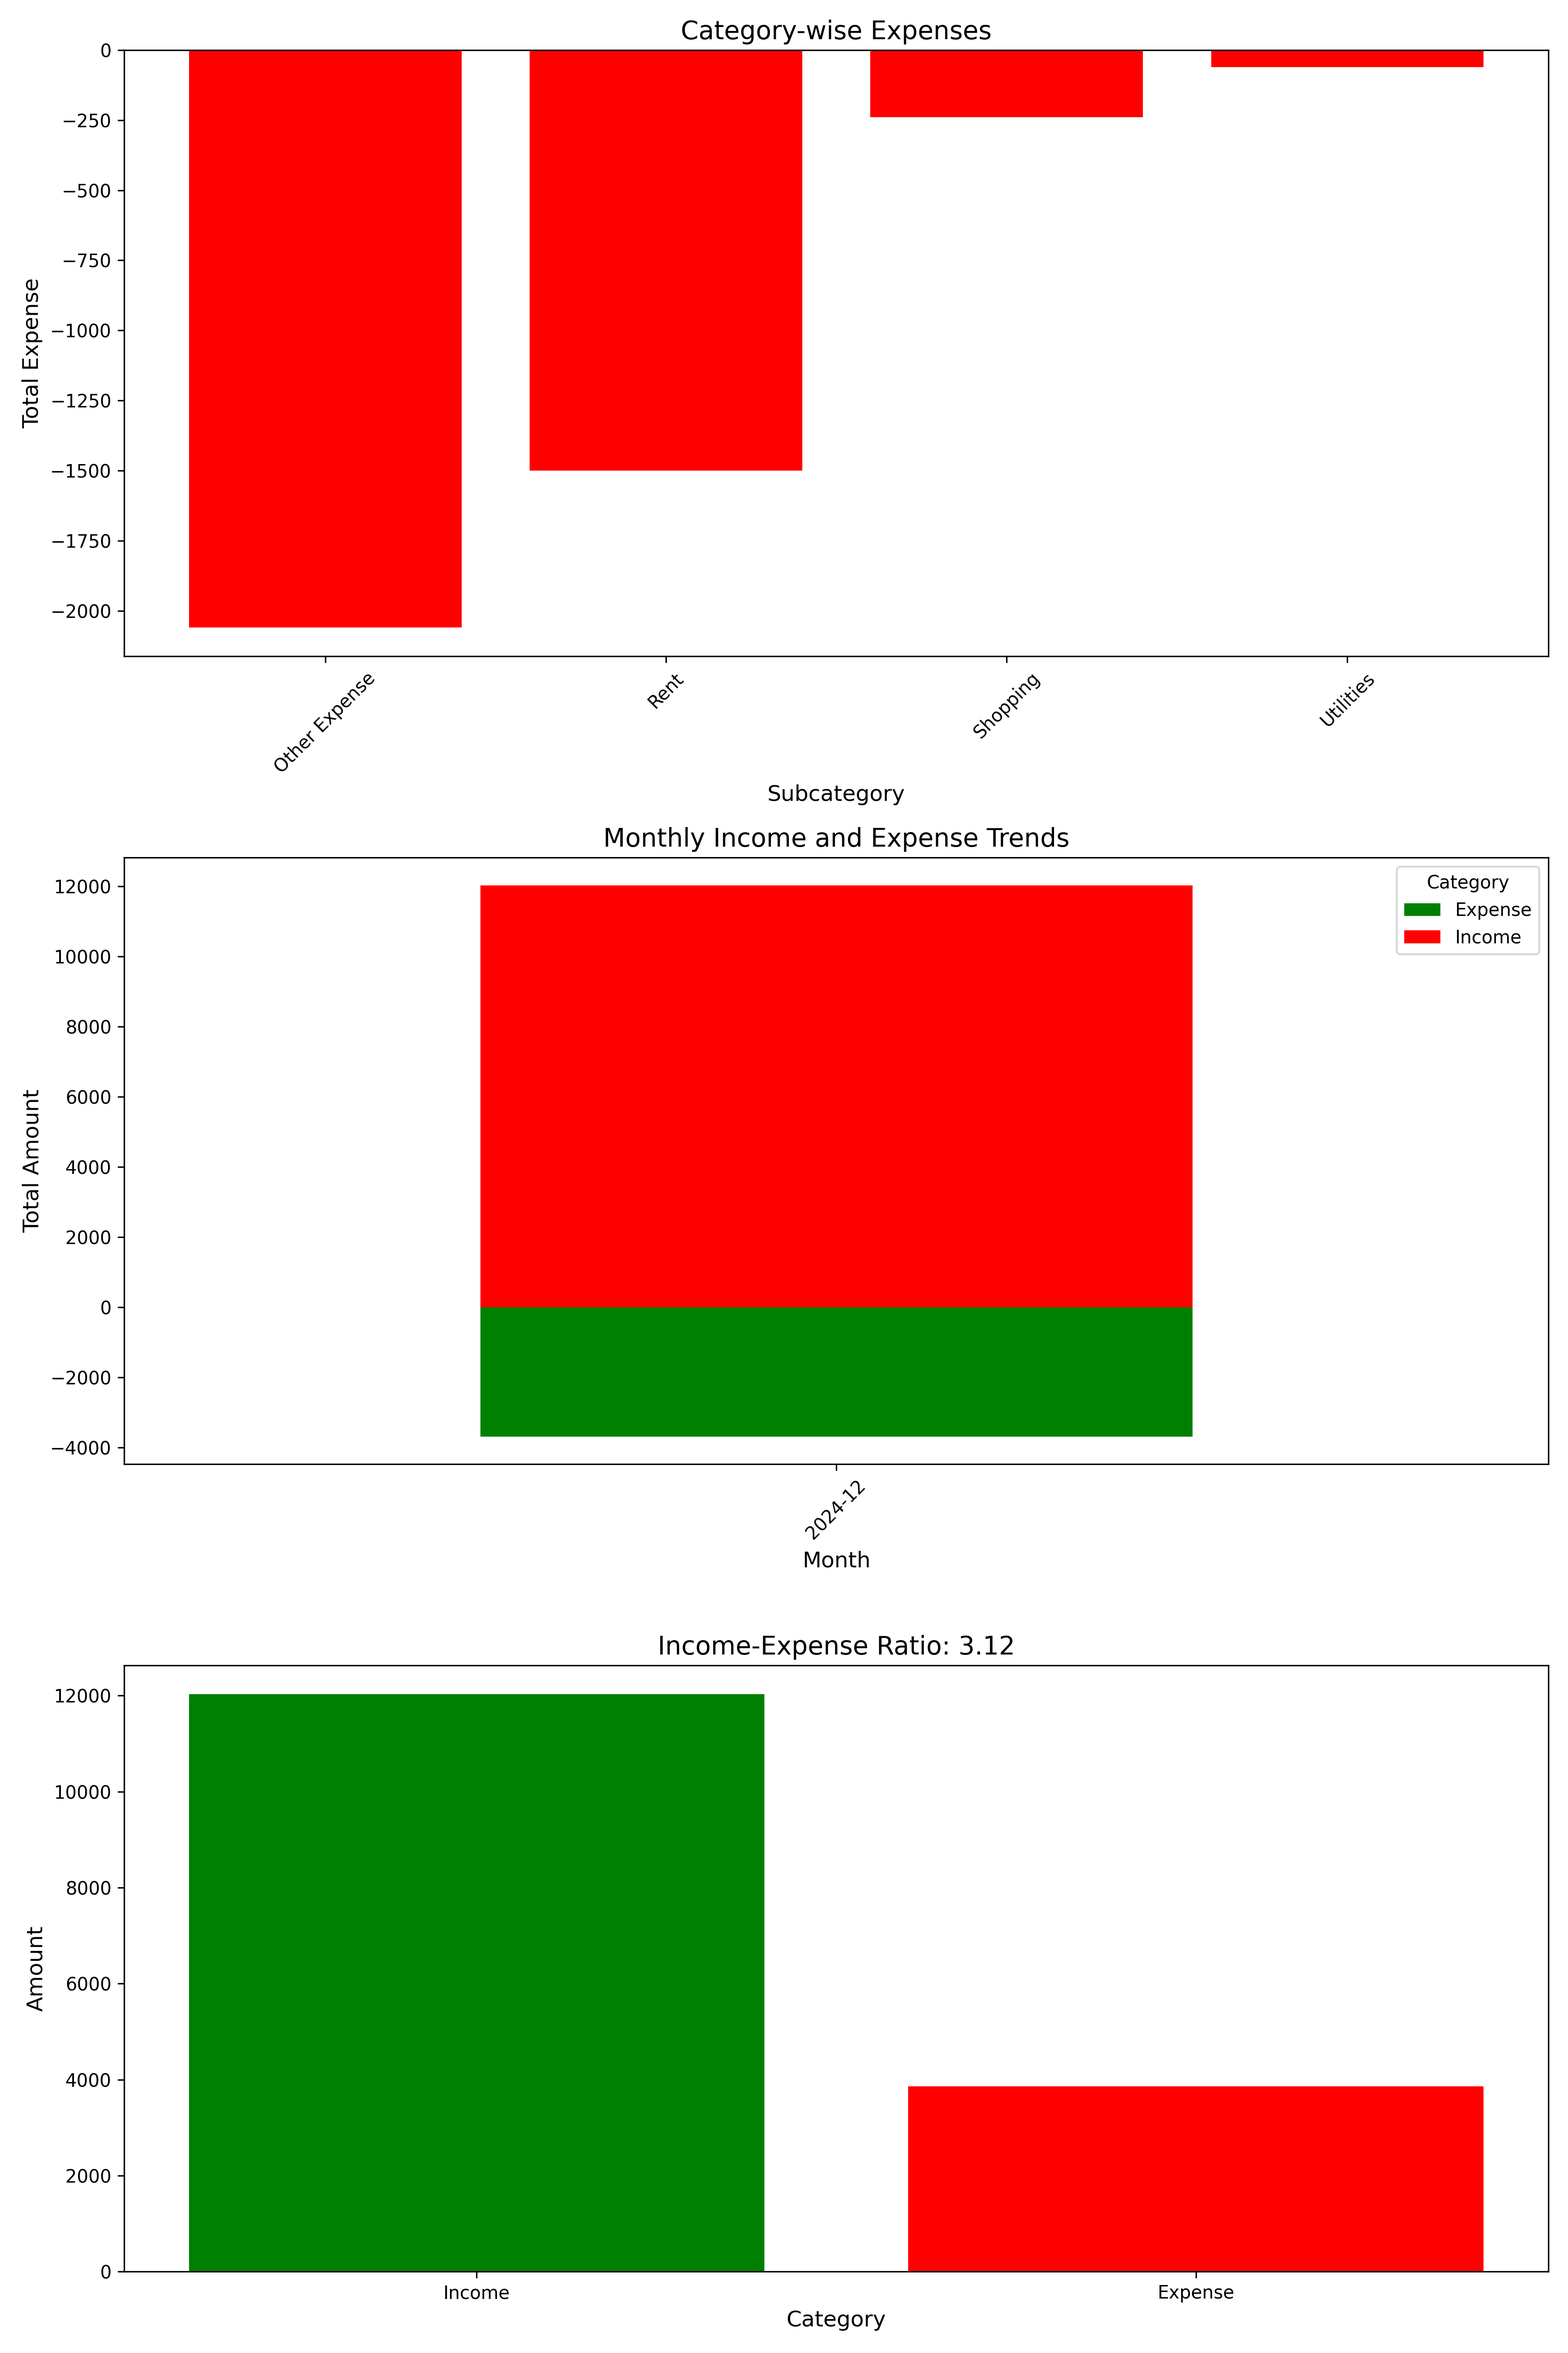
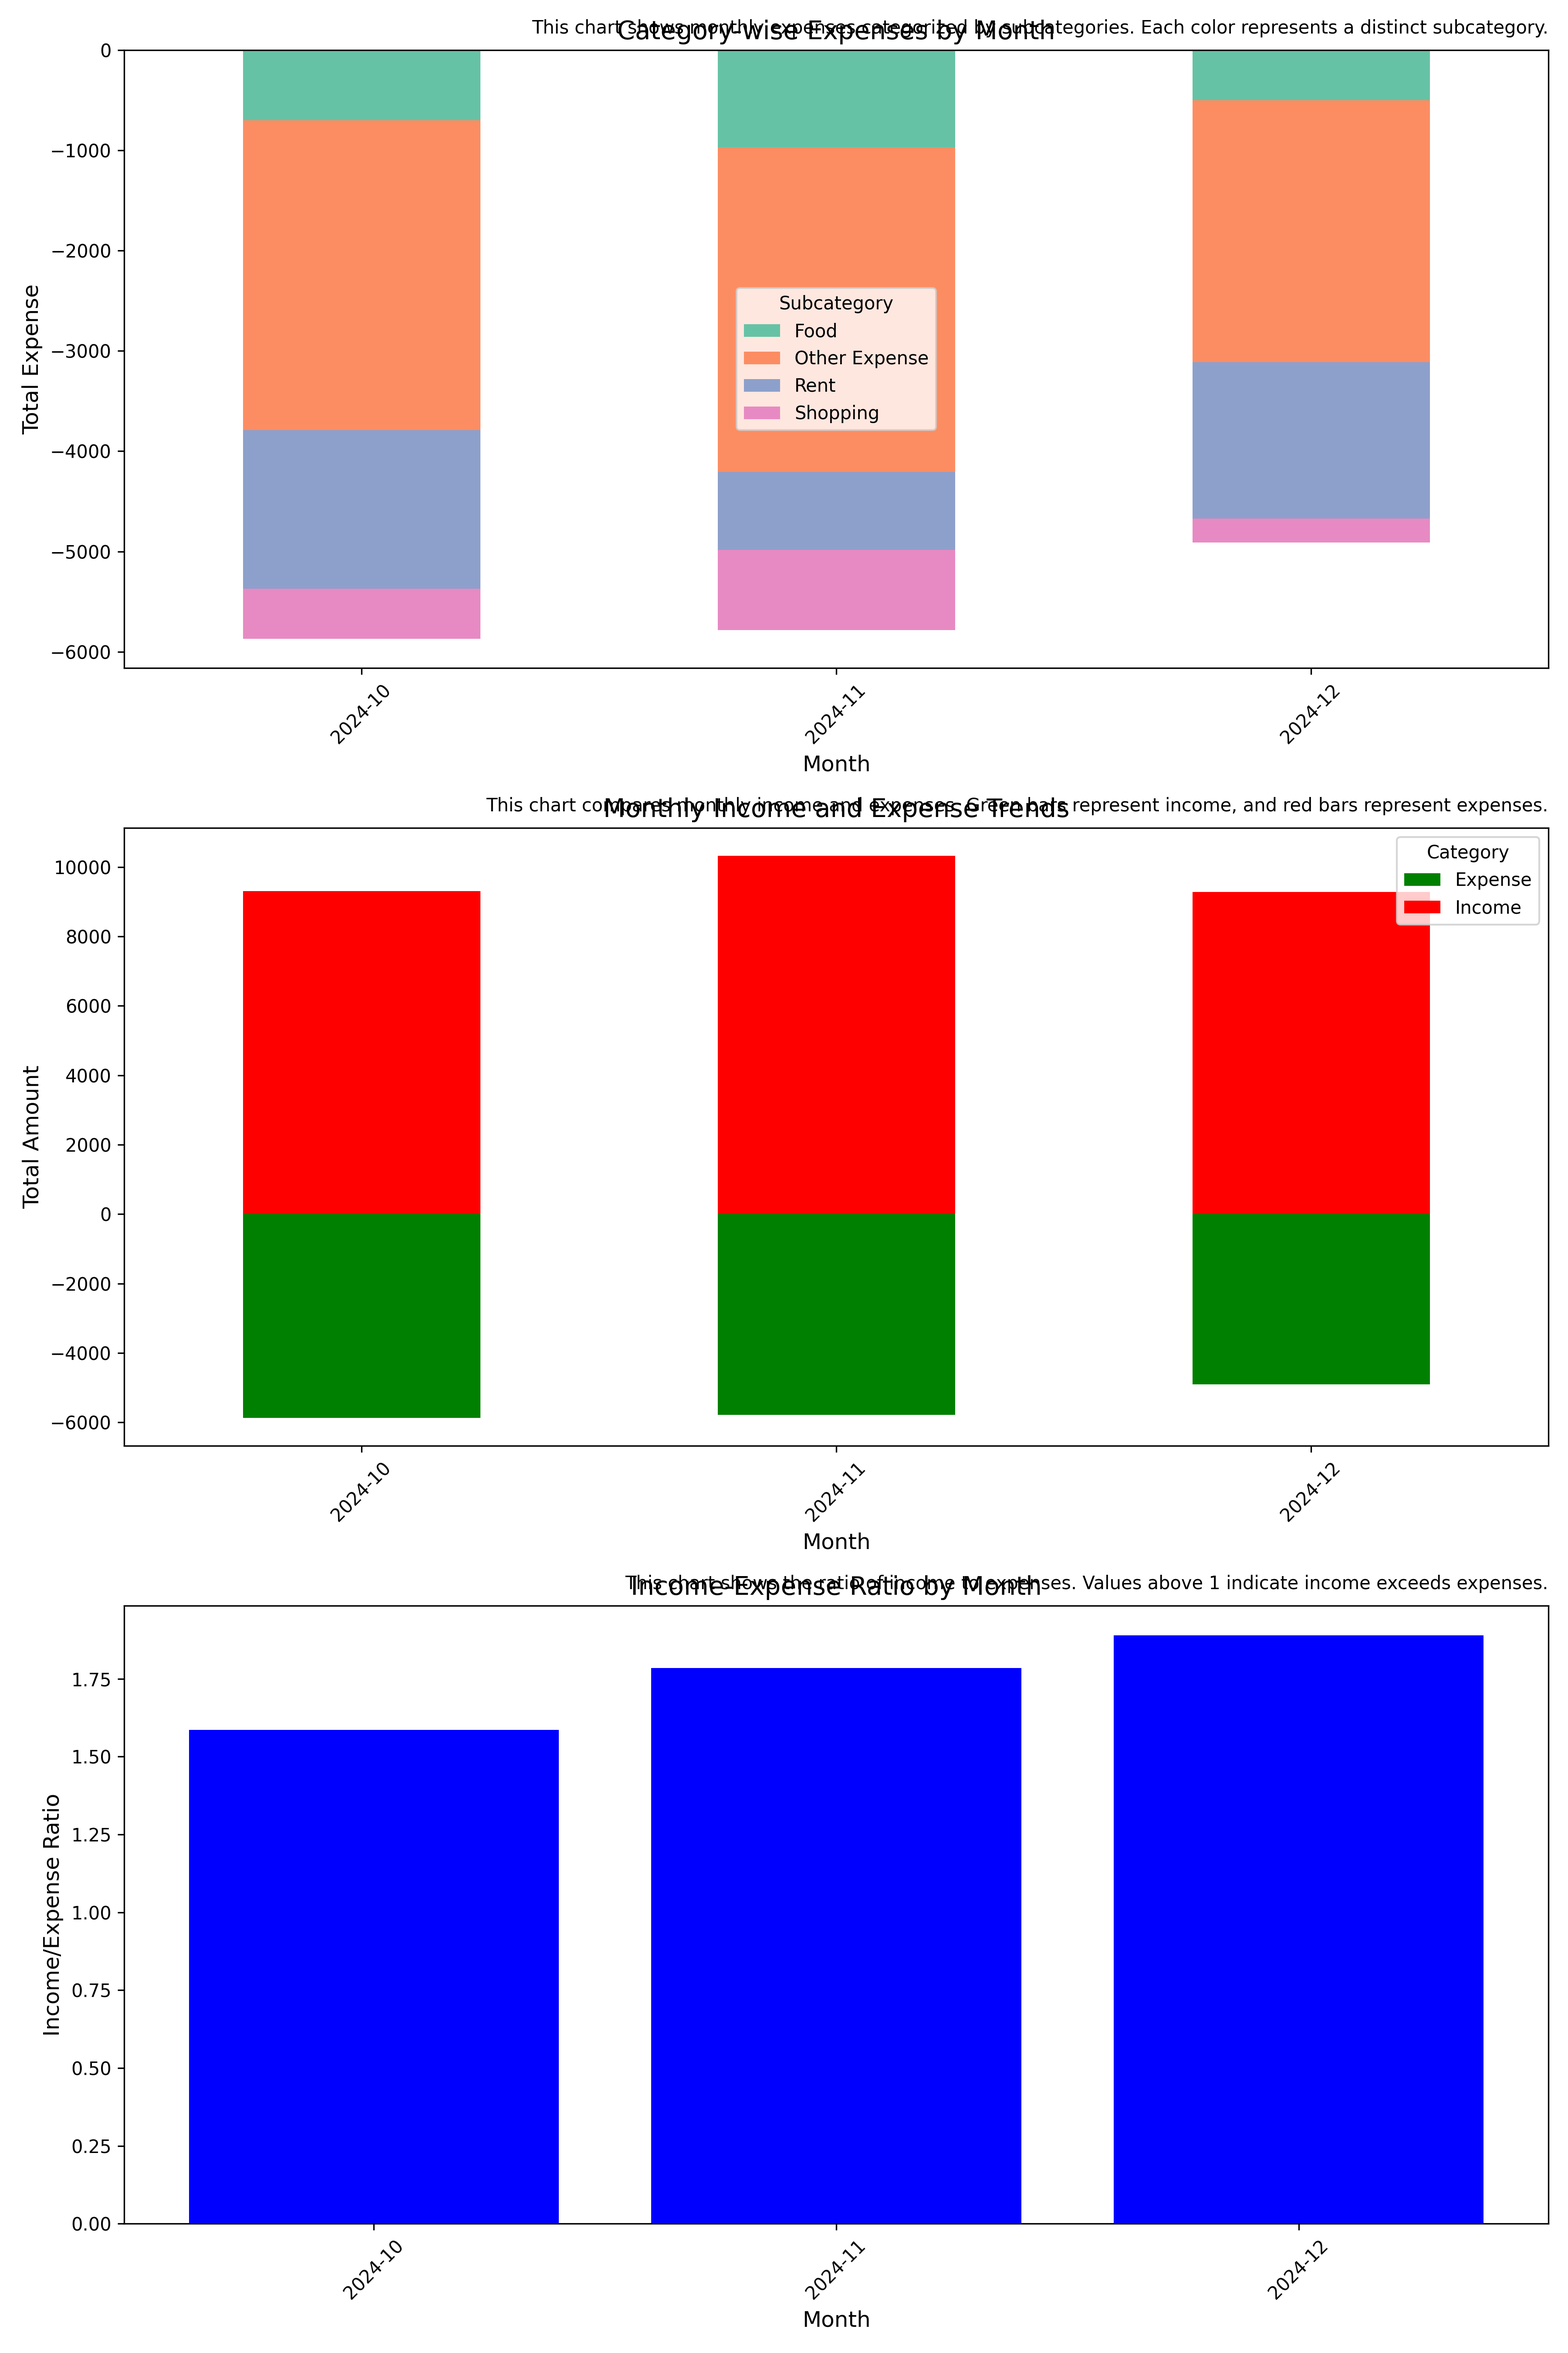
ByMonth_visualize.py

diff --git a/src/visualize.py b/src/visualize.py
@@ -1,20 +1,53 @@
 import pandas as pd
 import matplotlib.pyplot as plt
+import seaborn as sns
 
 def generate_report(data):
-    return data.groupby(['Category', 'Subcategory'])['Amount'].sum().reset_index()
+    # Ensure 'Date' column is datetime format
+    data['Date'] = pd.to_datetime(data['Date'], errors='coerce')
+
+    # Extract Year-Month for grouping
+    data['Month'] = data['Date'].dt.to_period('M')
+
+    # Separate income and expenses by checking the sign of the 'Amount' column
+    data['Income'] = data['Amount'].apply(lambda x: x if x > 0 else 0)
+    data['Expense'] = data['Amount'].apply(lambda x: x if x < 0 else 0)
+
+    # Group by 'Month' and sum the 'Income' and 'Expense'
+    monthly_report = data.groupby('Month').agg(
+        total_income=pd.NamedAgg(column='Income', aggfunc='sum'),
+        total_expenses=pd.NamedAgg(column='Expense', aggfunc='sum')
+    ).reset_index()
+
+    # Fill missing months (optional) and ensure all months are represented
+    monthly_report.fillna(0, inplace=True)
+
+    return monthly_report
 
 def create_summary_chart(data):
-    summary = data.groupby('Category')['Amount'].sum().reset_index()
+    # Ensure 'Date' column is datetime format
+    data['Date'] = pd.to_datetime(data['Date'], errors='coerce')
+
+    # Extract Year-Month for grouping
+    data['Month'] = data['Date'].dt.to_period('M')
+
+    # Get the last month
+    last_month = data['Month'].max()
+
+    # Filter the data for the last month
+    last_month_data = data[data['Month'] == last_month]
+
+    # Group by 'Category' and sum the 'Amount' for the last month
+    summary = last_month_data.groupby('Category')['Amount'].sum().reset_index()
 
     # Define basic colors for categories
     colors = {'Income': 'green', 'Expense': 'red'}
 
-    # Create a simple bar chart
+    # Create a simple bar chart for the last month's data
     plt.bar(summary['Category'], summary['Amount'], color=summary['Category'].map(colors))
 
     # Set title and labels
-    plt.title('Income vs Expense', fontsize=14)
+    plt.title(f'Income vs Expense for {last_month}', fontsize=14)
     plt.xlabel('Category', fontsize=12)
     plt.ylabel('Total Amount', fontsize=12)
     plt.xticks(fontsize=10)
@@ -24,56 +57,65 @@ def create_summary_chart(data):
     plt.savefig('data/summary_chart.png', format='png', dpi=300)
     plt.close()
 
-def create_summary_pie(data):
-    # Group data by Category and sum the amounts
-    summary = data.groupby('Category')['Amount'].sum().reset_index()
 
-    # Initialize variables for income and expenses
-    income = 0
-    expense = 0
+def create_summary_barchart(data):
+    # Ensure 'Date' column is datetime format
+    data['Date'] = pd.to_datetime(data['Date'], errors='coerce')
 
-    # Iterate over the summary and accumulate totals for income and expenses
-    for _, row in summary.iterrows():
-        if row['Category'] == 'Income':
-            income += row['Amount']
-        elif row['Category'] == 'Expense':
-            expense += abs(row['Amount'])  # Ensure expenses are positive
+    # Extract Year-Month for grouping
+    data['Month'] = data['Date'].dt.to_period('M')
 
-    # Prepare labels, sizes, and colors for the pie chart
-    labels = ['Income', 'Expense']
-    sizes = [income, expense]
-    colors = ['yellow', 'blue']
+    # Group by 'Month' and calculate total income and expenses per month
+    monthly_summary = data.groupby('Month').agg(
+        total_income=pd.NamedAgg(column='Amount', aggfunc=lambda x: x[x > 0].sum()),
+        total_expenses=pd.NamedAgg(column='Amount', aggfunc=lambda x: x[x < 0].sum())
+    ).reset_index()
 
-    # Plot the pie chart
-    plt.figure(figsize=(8, 8))
-    plt.pie(
-        sizes,
-        labels=labels,
-        colors=colors,
-        autopct='%1.1f%%',
-        startangle=90,
-        wedgeprops={'edgecolor': 'black'}
-    )
+    # Prepare the bar chart
+    fig, ax = plt.subplots(figsize=(10, 6))
 
-    plt.title('Income vs Expense', fontsize=16)
-    plt.savefig('data/summary_pie.png', format='png', dpi=300)
+    # Plot total income and expenses
+    ax.bar(monthly_summary['Month'].astype(str), monthly_summary['total_income'], label='Income', color='yellow', width=0.4, align='center')
+    ax.bar(monthly_summary['Month'].astype(str), abs(monthly_summary['total_expenses']), label='Expense', color='blue', width=0.4, align='edge')
+
+    # Add labels and title
+    ax.set_xlabel('Month')
+    ax.set_ylabel('Amount')
+    ax.set_title('Monthly Income vs Expense', fontsize=16)
+    ax.legend()
+
+    # Rotate x-axis labels for better visibility
+    plt.xticks(rotation=45)
+
+    # Save the bar chart as an image
+    plt.tight_layout()
+    plt.savefig('data/summary_barchart.png', format='png', dpi=300)
     plt.close()
 
-
 def create_combined_chart(data):
+    # Ensure 'Date' column is datetime format
+    data['Date'] = pd.to_datetime(data['Date'], errors='coerce')
+
+    # Extract Year-Month for grouping
+    data['Month'] = data['Date'].dt.to_period('M')
+
     # Create subplots: 3 rows and 1 column (vertically stacked)
     fig, axs = plt.subplots(3, 1, figsize=(12, 18))
 
-    # 1. Category-wise Expenses (Bar Chart)
-    category_expenses = data[data['Category'] == 'Expense'].groupby('Subcategory')['Amount'].sum().reset_index()
-    axs[0].bar(category_expenses['Subcategory'], category_expenses['Amount'], color='red')
-    axs[0].set_title('Category-wise Expenses', fontsize=14)
-    axs[0].set_xlabel('Subcategory', fontsize=12)
+    category_expenses = data[data['Category'] == 'Expense'].groupby(['Month', 'Subcategory'])[
+        'Amount'].sum().unstack().fillna(0)
+
+    # Generate a color palette with as many colors as subcategories
+    color_palette = sns.color_palette("Set2", len(category_expenses.columns))  # You can choose any palette you prefer
+
+    # Plot the category-wise expenses with different colors for each subcategory
+    category_expenses.plot(kind='bar', stacked=True, ax=axs[0], color=color_palette)
+    axs[0].set_title('Category-wise Expenses by Month', fontsize=14)
+    axs[0].set_xlabel('Month', fontsize=12)
     axs[0].set_ylabel('Total Expense', fontsize=12)
     axs[0].tick_params(axis='x', rotation=45)
 
     # 2. Monthly Trends (Stacked Bar Chart)
-    data['Month'] = pd.to_datetime(data['Date']).dt.to_period('M')
     monthly_summary = data.groupby(['Month', 'Category'])['Amount'].sum().unstack().fillna(0)
     monthly_summary.plot(kind='bar', stacked=True, ax=axs[1], color=['green', 'red'])
     axs[1].set_title('Monthly Income and Expense Trends', fontsize=14)
@@ -82,19 +124,19 @@ def create_combined_chart(data):
     axs[1].tick_params(axis='x', rotation=45)
 
     # 3. Income-Expense Ratio (Bar Chart)
-    total_income = data[data['Category'] == 'Income']['Amount'].sum()
-    total_expense = data[data['Category'] == 'Expense']['Amount'].sum()
-    ratio = total_income / abs(total_expense) if total_expense != 0 else 0
-    categories = ['Income', 'Expense']
-    values = [total_income, abs(total_expense)]
-    colors = ['green', 'red']
-    axs[2].bar(categories, values, color=colors)
-    axs[2].set_title(f'Income-Expense Ratio: {ratio:.2f}', fontsize=14)
-    axs[2].set_xlabel('Category', fontsize=12)
-    axs[2].set_ylabel('Amount', fontsize=12)
+    monthly_income_expense_ratio = data.groupby('Month').apply(
+        lambda x: x[x['Category'] == 'Income']['Amount'].sum() /
+                  abs(x[x['Category'] == 'Expense']['Amount'].sum()) if x[x['Category'] == 'Expense']['Amount'].sum() != 0 else 0
+    )
+    axs[2].bar(monthly_income_expense_ratio.index.astype(str), monthly_income_expense_ratio.values, color='green')
+    axs[2].set_title('Income-Expense Ratio by Month', fontsize=14)
+    axs[2].set_xlabel('Month', fontsize=12)
+    axs[2].set_ylabel('Income/Expense Ratio', fontsize=12)
+    axs[2].tick_params(axis='x', rotation=45)
 
     # Adjust layout to avoid overlap
     plt.tight_layout()
 
     # Save the combined chart as a PNG file
     plt.savefig('data/combined_analysis.png', format='png', dpi=300)
+

diff --git a/src/classify.py b/src/classify.py
@@ -1,33 +1,33 @@
 def classify_transaction(description: str, amount: float) -> tuple:
 
-    description = description.lower()  # Normalize text
+    description = description.lower()
 
     income_keywords = {
-        'Salary': ['salary', 'payroll', 'wages'],
-        'Bonus/Commission': ['bonus', 'commission', 'incentive'],
+        'Salary': ['salary', 'payroll', 'wages','bonus', 'commission', 'incentive'],
         'Refund': ['refund', 'rebate', 'reimbursement'],
-        'Other Income': []  # Default category for unmatched incomes
+        'Other Income': []
     }
 
     expense_keywords = {
-        'Rent': ['rent', 'lease'],
+        'Rent': ['rent', 'lease', 'utility', 'electricity', 'water', 'gas'],
         'Food': ['food', 'restaurant', 'groceries', 'dining'],
         'Travel': ['travel', 'transport', 'flight', 'hotel'],
-        'Utilities': ['utility', 'electricity', 'water', 'gas'],
         'Shopping': ['shopping', 'clothes', 'apparel', 'retail'],
-        'Other Expense': []  # Default category for unmatched expenses
+        'Other Expense': []
     }
 
-    if amount > 0:  # Income classification
+    if amount > 0:
         category = 'Income'
         subcategory = next(
-            (key for key, keywords in income_keywords.items() if any(kw in description for kw in keywords)),
+            (key for key, keywords in income_keywords.items()
+             if any(kw in description for kw in keywords)),
             'Other Income'
         )
-    else:  # Expense classification
+    else:
         category = 'Expense'
         subcategory = next(
-            (key for key, keywords in expense_keywords.items() if any(kw in description for kw in keywords)),
+            (key for key, keywords in expense_keywords.items()
+             if any(kw in description for kw in keywords)),
             'Other Expense'
         )
 

diff --git a/main.py b/main.py
@@ -1,5 +1,5 @@
 import os
-import pandas as pd
+
 from src.preprocess import (
     preprocess_text,
     feature_extraction,
@@ -9,10 +9,9 @@ from src.classify import classify_transaction
 from src.visualize import (
     generate_report,
     create_summary_chart,
-    create_summary_pie,
-    create_combined_chart
+    create_summary_barchart,
+    create_combined_chart,
 )
-
 
 def main():
     # Define file paths
@@ -63,8 +62,8 @@ def main():
 
         # Create visualizations
         print("Creating summary chart visualizations...")
-        create_summary_chart(data)
-        create_summary_pie(data)
+        create_summary_chart(data)  # General summary chart
+        create_summary_barchart(data)    # Monthly pie charts (new functionality)
         create_combined_chart(data)
 
         print(f"Workflow completed successfully! \n"
@@ -72,11 +71,10 @@ def main():
               f"- Combined analysis saved to: "
               f"data/combined_analysis.png, "
               f"data/summary_chart.png, "
-              f"data/summary_pie.png")
+              f"data/summary_barchart.png")
 
     except Exception as e:
         print(f"An error occurred during processing: {e}")
-
 
 if __name__ == "__main__":
     main()

diff --git a/src/preprocess.py b/src/preprocess.py
@@ -136,3 +136,25 @@ class FlexibleTableProcessor:
         except Exception as e:
             print(f"Error loading file: {e}")
             return pd.DataFrame()
+
+    @staticmethod
+    def calculate_monthly_summary(df: pd.DataFrame) -> pd.DataFrame:
+        # Ensure 'Date' column is datetime format
+        if 'Date' not in df.columns or 'Amount' not in df.columns:
+            raise ValueError("Both 'Amount' and 'Date' columns are required for summary calculation.")
+
+        df['Date'] = pd.to_datetime(df['Date'], errors='coerce')
+
+        # Extract Year-Month for grouping
+        df['Month'] = df['Date'].dt.to_period('M')
+
+        # Calculate total income and expenses
+        monthly_summary = df.groupby('Month').agg(
+            total_income=pd.NamedAgg(column='Amount', aggfunc=lambda x: x[x > 0].sum()),
+            total_expenses=pd.NamedAgg(column='Amount', aggfunc=lambda x: x[x < 0].sum()),
+            balance=pd.NamedAgg(column='Amount', aggfunc='sum')
+        ).reset_index()
+
+        monthly_summary.fillna(0, inplace=True)
+
+        return monthly_summary
